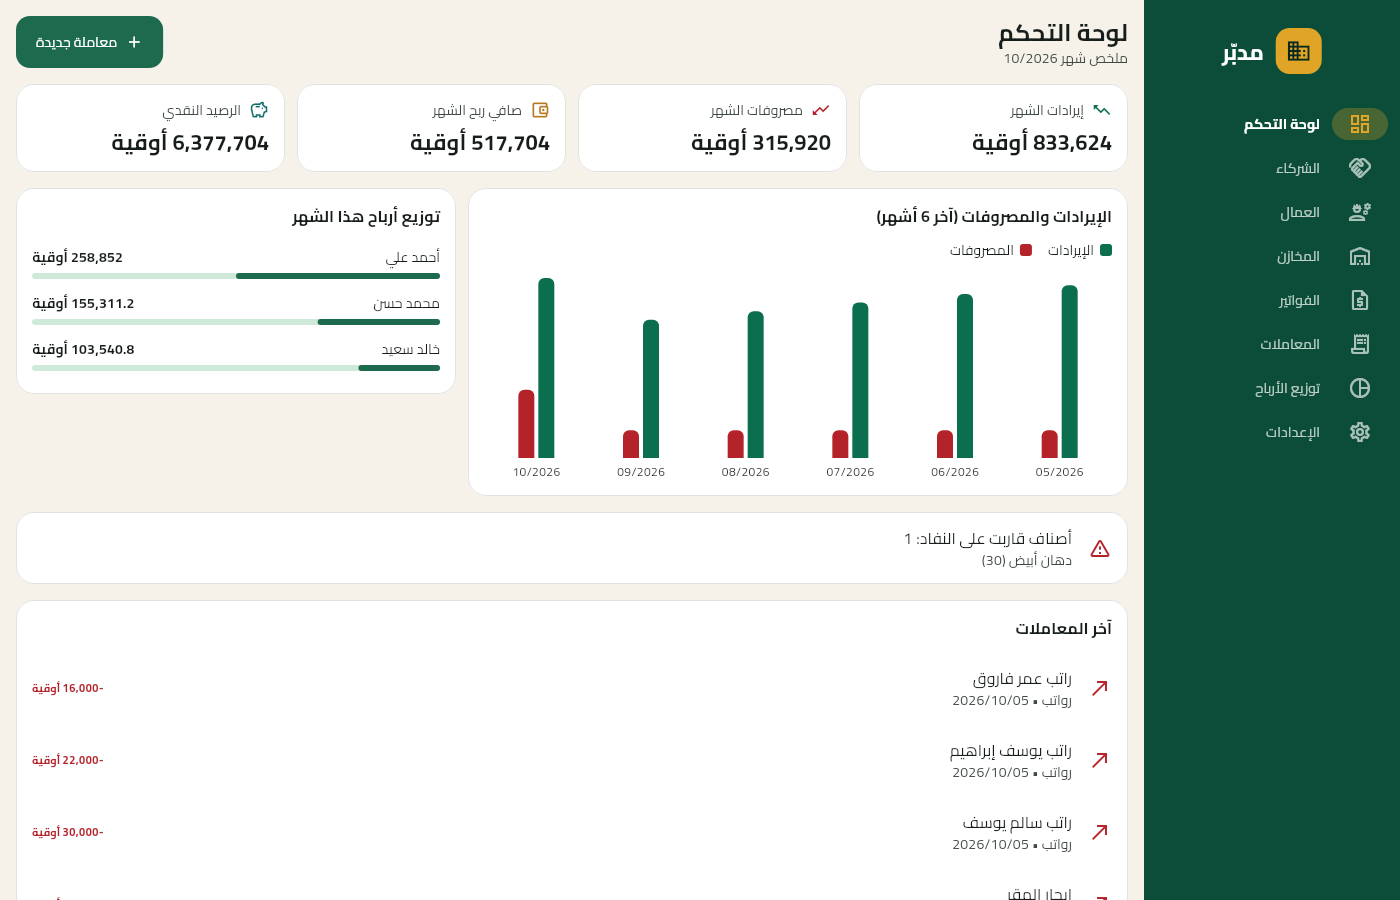
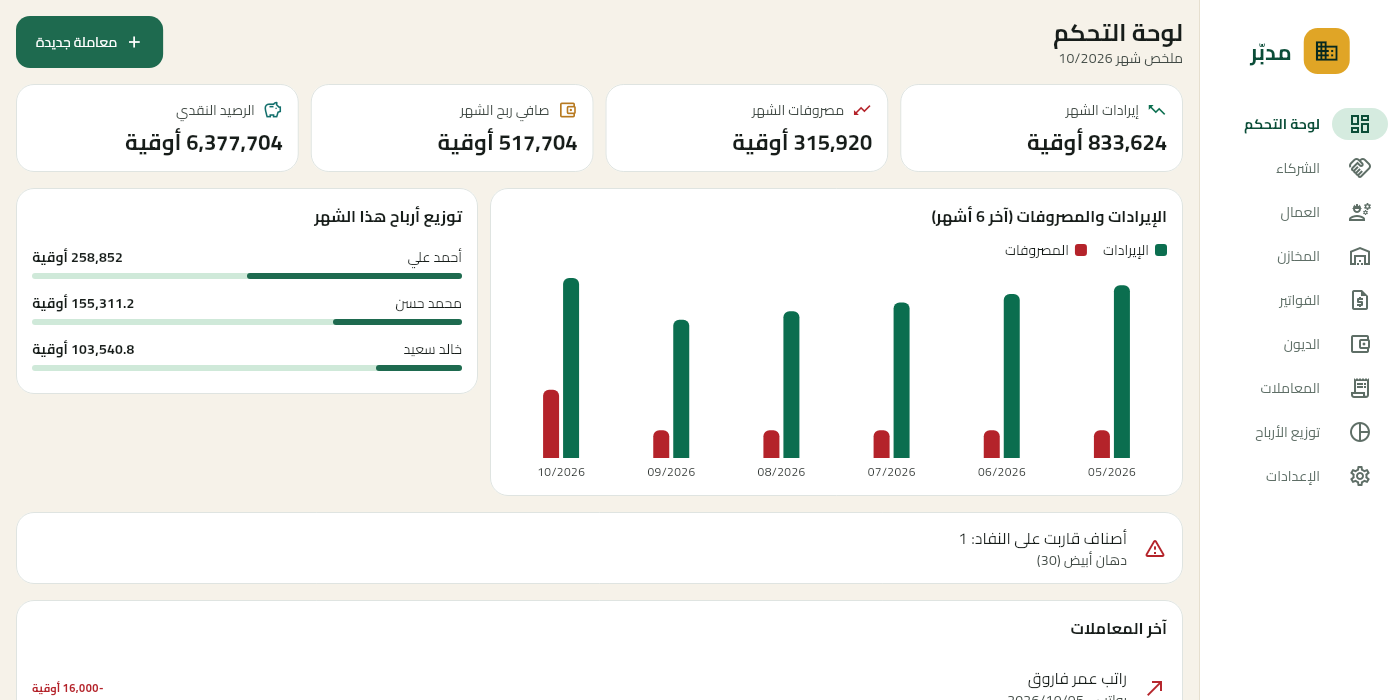
Light sidebar and menu drawer
The navigation rail and the phone menu drawer move from dark green to a
white surface with green text, a light-green selected item and a thin
border, matching the light sand theme.

Claude-Session: https://claude.ai/code/session_01X9Xt23fqdrjn1yncKBRNLD

diff --git a/lib/screens/home_shell.dart b/lib/screens/home_shell.dart
@@ -56,22 +56,29 @@ class _HomeShellState extends State<HomeShell> {
         body: Row(
           children: [
             Container(
-              decoration: BoxDecoration(color: AppColors.sidebar.last),
+              decoration: const BoxDecoration(
+                color: AppColors.navBackground,
+                border: BorderDirectional(
+                  end: BorderSide(color: AppColors.navBorder),
+                ),
+              ),
               child: NavigationRail(
                 extended: extended,
                 minExtendedWidth: 200,
                 backgroundColor: Colors.transparent,
-                indicatorColor: AppColors.gold.withValues(alpha: 0.28),
-                selectedIconTheme: const IconThemeData(color: AppColors.gold),
-                unselectedIconTheme: IconThemeData(
-                  color: Colors.white.withValues(alpha: 0.65),
+                indicatorColor: AppColors.navSelected,
+                selectedIconTheme: const IconThemeData(
+                  color: AppColors.navText,
+                ),
+                unselectedIconTheme: const IconThemeData(
+                  color: AppColors.navMuted,
                 ),
                 selectedLabelTextStyle: label?.copyWith(
-                  color: Colors.white,
+                  color: AppColors.navText,
                   fontWeight: FontWeight.bold,
                 ),
                 unselectedLabelTextStyle: label?.copyWith(
-                  color: Colors.white.withValues(alpha: 0.70),
+                  color: AppColors.navMuted,
                 ),
                 selectedIndex: _index,
                 onDestinationSelected: (i) => setState(() => _index = i),
@@ -86,7 +93,7 @@ class _HomeShellState extends State<HomeShell> {
                         const Text(
                           appName,
                           style: TextStyle(
-                            color: Colors.white,
+                            color: AppColors.navText,
                             fontSize: 22,
                             fontWeight: FontWeight.bold,
                           ),
@@ -121,20 +128,20 @@ class _HomeShellState extends State<HomeShell> {
       drawer: Theme(
         data: Theme.of(context).copyWith(
           navigationDrawerTheme: NavigationDrawerThemeData(
-            backgroundColor: AppColors.sidebar.first,
-            indicatorColor: AppColors.gold.withValues(alpha: 0.28),
+            backgroundColor: AppColors.navBackground,
+            indicatorColor: AppColors.navSelected,
             iconTheme: WidgetStateProperty.resolveWith(
               (s) => IconThemeData(
                 color: s.contains(WidgetState.selected)
-                    ? Colors.white
-                    : Colors.white.withValues(alpha: 0.65),
+                    ? AppColors.navText
+                    : AppColors.navMuted,
               ),
             ),
             labelTextStyle: WidgetStateProperty.resolveWith(
               (s) => label?.copyWith(
                 color: s.contains(WidgetState.selected)
-                    ? Colors.white
-                    : Colors.white.withValues(alpha: 0.75),
+                    ? AppColors.navText
+                    : AppColors.navMuted,
                 fontWeight: s.contains(WidgetState.selected)
                     ? FontWeight.bold
                     : null,
@@ -160,7 +167,7 @@ class _HomeShellState extends State<HomeShell> {
                       '$appName - إدارة الأعمال',
                       overflow: TextOverflow.ellipsis,
                       style: TextStyle(
-                        color: Colors.white,
+                        color: AppColors.navText,
                         fontSize: 18,
                         fontWeight: FontWeight.bold,
                       ),

diff --git a/lib/theme/app_colors.dart b/lib/theme/app_colors.dart
@@ -20,7 +20,14 @@ abstract final class AppColors {
   static const stock = [Color(0xFF7FA650), Color(0xFF4A6B26)];
   static const ok = [Color(0xFF2FB37E), Color(0xFF0B6E4F)];
 
-  /// خلفية القائمة الجانبية.
+  /// القائمة الجانبية: خلفية بيضاء ونص أخضر، والخيار المحدد بخلفية خضراء فاتحة.
+  static const navBackground = Color(0xFFFFFFFF);
+  static const navBorder = Color(0xFFE6DFCF);
+  static const navText = Color(0xFF0B4D38);
+  static const navMuted = Color(0xFF5E6E66);
+  static const navSelected = Color(0xFFD5EBDF);
+
+  /// الشريط العلوي على الجوال وعناصر داكنة أخرى.
   static const sidebar = [Color(0xFF07291F), Color(0xFF0B4D38)];
 
   /// ألوان متتالية لتمييز الأشخاص في أشرطة التوزيع.
